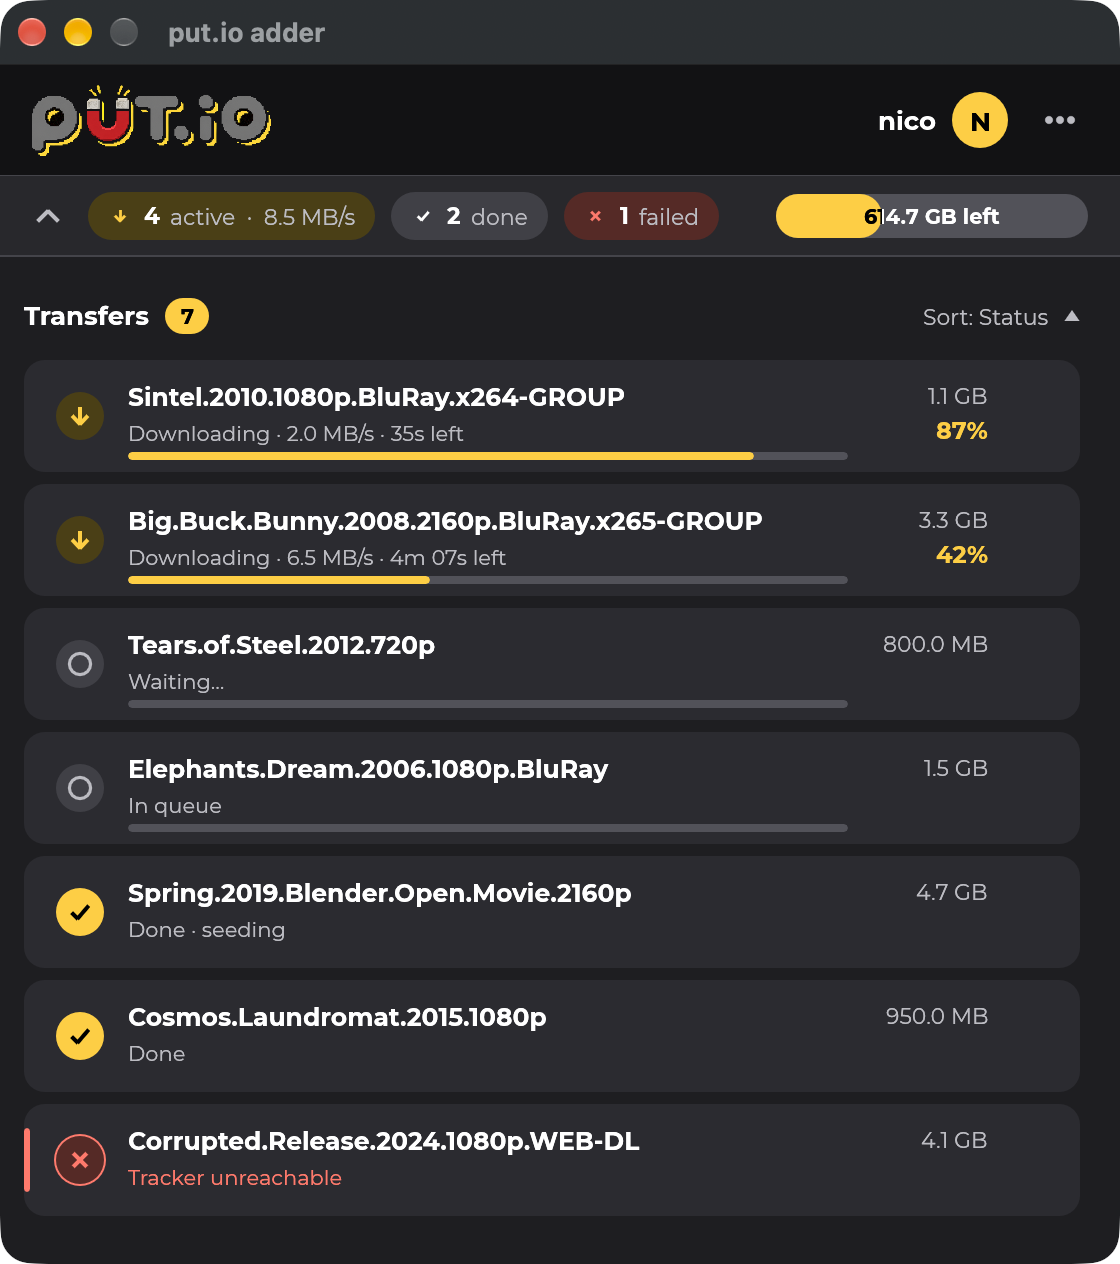
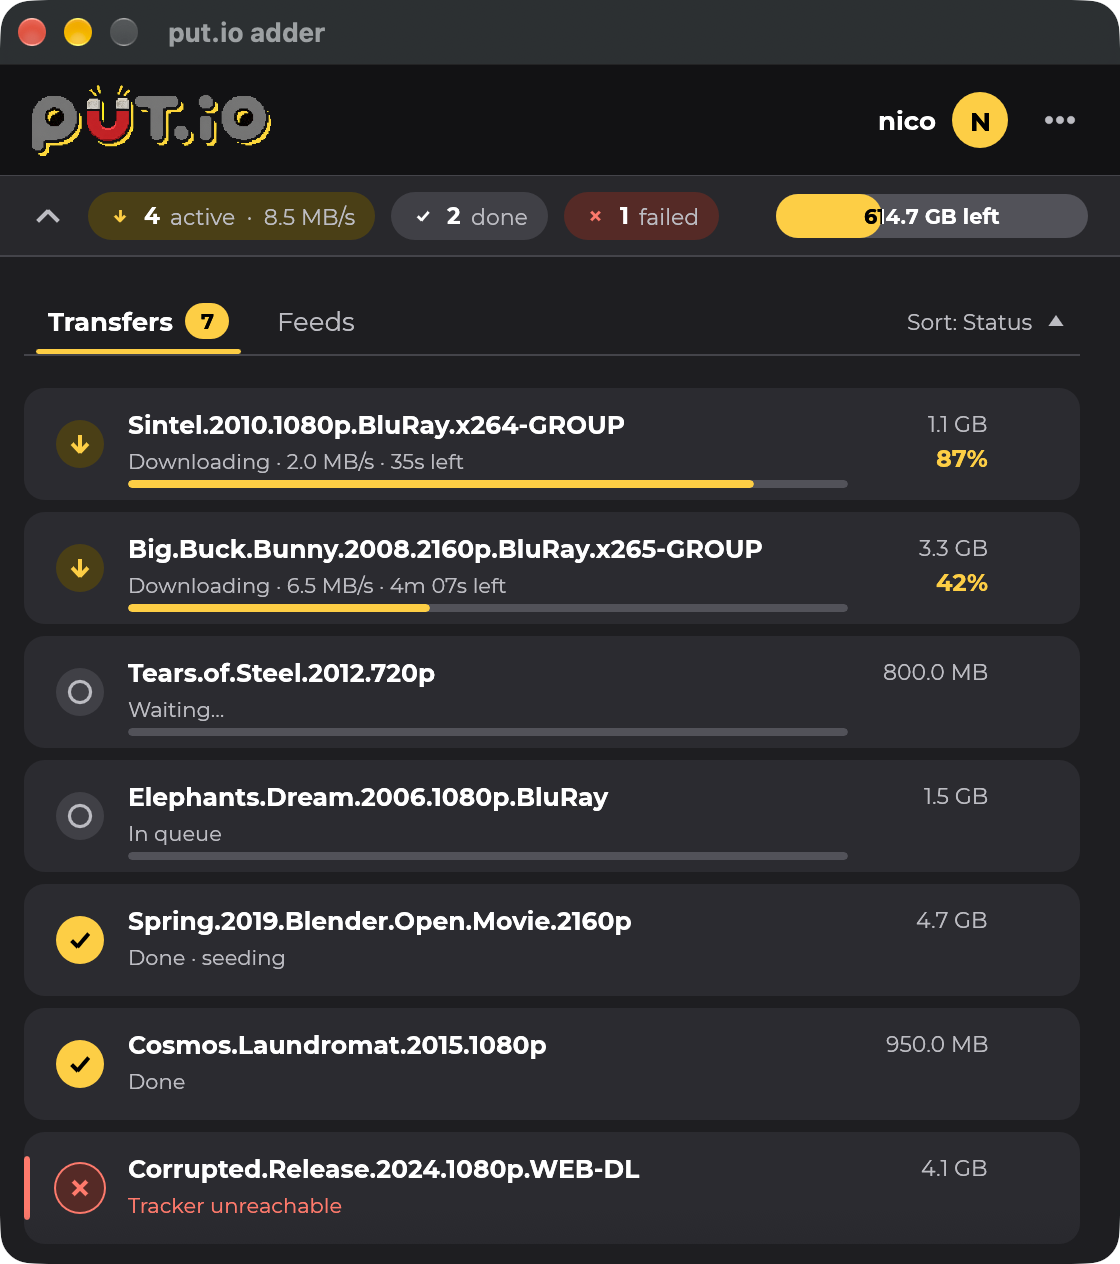
Document the feeds tab, retake the screenshots, test pasting into a field

diff --git a/crates/putio-adder/src/ui/widgets.rs b/crates/putio-adder/src/ui/widgets.rs
@@ -573,6 +573,57 @@ mod tests {
         }
     }
 
+    /// Run `frames` frames of a text field, feeding `events` to the second one.
+    fn typed_into_a_field(events: Vec<egui::Event>, limit: usize) -> String {
+        let ctx = egui::Context::default();
+        theme::apply(&ctx, putio_core::settings::ThemeChoice::Light);
+        let mut value = String::new();
+        for frame in 0..4 {
+            let input = egui::RawInput {
+                screen_rect: Some(egui::Rect::from_min_size(
+                    Pos2::ZERO,
+                    Vec2::new(400.0, 300.0),
+                )),
+                events: if frame == 2 {
+                    events.clone()
+                } else {
+                    Vec::new()
+                },
+                ..Default::default()
+            };
+            let output = ctx.run_ui(input, |ui| {
+                let label = ui.label("Address").id;
+                let field =
+                    text_field(ui, &mut value, "https://example.com/feed.xml", label, limit);
+                if frame == 0 {
+                    field.request_focus();
+                }
+            });
+            output.drop_without_applying_deltas();
+        }
+        value
+    }
+
+    #[test]
+    fn what_is_typed_or_pasted_lands_in_the_field_and_stops_at_its_limit() {
+        assert_eq!(
+            typed_into_a_field(vec![egui::Event::Text("abc".into())], 100),
+            "abc"
+        );
+        assert_eq!(
+            typed_into_a_field(
+                vec![egui::Event::Paste("https://example.com/feed.xml".into())],
+                100
+            ),
+            "https://example.com/feed.xml"
+        );
+        assert_eq!(
+            typed_into_a_field(vec![egui::Event::Paste("0123456789ABCDEF".into())], 10),
+            "0123456789",
+            "the limit holds for a paste too"
+        );
+    }
+
     #[test]
     fn text_is_cut_with_an_ellipsis_only_when_it_does_not_fit() {
         #[allow(clippy::cast_precision_loss)] // tiny test strings

diff --git a/README.md b/README.md
@@ -6,6 +6,7 @@ A small cross-platform app for **macOS, Windows and Linux** (x86-64 and arm64), 
 - **Magnet links and `.torrent` files** go straight to your put.io queue. The app asks once whether it should be the default app for them, and sets itself up if you say yes
 - **Your transfers** at a glance: progress, speed, ETA and size, sorted how you like, with a notification when one finishes
 - **Right-click a transfer** (or use its "⋯" button) for a details panel (peers, share ratio, tracker message, dates), retry, copy the put.io link or the magnet link, cancel or stop seeding, clear finished ones, stream in [VLC](https://www.videolan.org/vlc/), or download the file or folder through your browser
+- **RSS feeds** on their own tab: add a feed, choose where its items are saved, filter by words, pause, edit or delete it. put.io does the watching and the transfers show up in the list like any other (⌘1 / ⌘2, or Ctrl+1 / Ctrl+2, switch tabs)
 - **Updates itself** from GitHub releases when you press *Update now* (see [What the updater checks](#updates))
 - Optional: choose the put.io folder new transfers are saved in
 - Light and dark theme, a resizable window, English, German and Spanish
@@ -18,6 +19,10 @@ A small cross-platform app for **macOS, Windows and Linux** (x86-64 and arm64), 
   <tr>
     <td><img src="docs/images/screenshot-light.png" alt="put.io adder in the light theme, showing running, queued, finished and failed transfers" width="420"></td>
     <td><img src="docs/images/screenshot-dark.png" alt="put.io adder in the dark theme, showing running, queued, finished and failed transfers" width="420"></td>
+  </tr>
+  <tr>
+    <td><img src="docs/images/screenshot-feeds-light.png" alt="The Feeds tab in the light theme, with running, paused and broken feeds" width="420"></td>
+    <td><img src="docs/images/screenshot-feeds-dark.png" alt="The Feeds tab in the dark theme, with running, paused and broken feeds" width="420"></td>
   </tr>
 </table>
 

diff --git a/docs/development.md b/docs/development.md
@@ -16,6 +16,9 @@ PUTIO_ADDER_DEMO=menu cargo run -p putio-adder      # the "..." menu open (menu-
 PUTIO_ADDER_DEMO=sort cargo run -p putio-adder      # the sort drop-down open
 PUTIO_ADDER_DEMO=card-menu cargo run -p putio-adder   # a card's "⋯" menu open (also card-menu-seeding, -failed, -done)
 PUTIO_ADDER_DEMO=details cargo run -p putio-adder     # the details panel (also details-downloading, details-failed, details-long)
+PUTIO_ADDER_DEMO=feeds cargo run -p putio-adder     # the Feeds tab (also feeds-empty, feeds-loading, feeds-failed, feed-card-menu)
+PUTIO_ADDER_DEMO=feed-add cargo run -p putio-adder  # the add-feed form (also feed-edit, feed-delete: the question before deleting)
+PUTIO_ADDER_LOCALE=de|es PUTIO_ADDER_DEMO=feeds cargo run -p putio-adder   # any view in German or Spanish
 PUTIO_ADDER_DEMO=update cargo run -p putio-adder    # an installable update on offer (also update-installing, -ready, -failed, -manual, prefs-update)
 PUTIO_ADDER_DEMO_TOGGLE=3000 PUTIO_ADDER_DEMO=list cargo run -p putio-adder   # opens and closes the list every 3 s (the window animation)
 PUTIO_ADDER_THEME=dark|light|system                 # override the saved theme (any debug run)
@@ -53,6 +56,7 @@ for t in tools/test_*.py; do python3 -I "$t"; done
 
 ## Screenshots
 
-The README screenshots (`docs/images/screenshot-light.png` and `-dark.png`) are the demo list (`PUTIO_ADDER_DEMO=list`) with
+The README screenshots (`docs/images/screenshot-light.png` and `-dark.png`, `screenshot-feeds-light.png` and `-dark.png`) are the demo list
+(`PUTIO_ADDER_DEMO=list`) and the demo feeds (`PUTIO_ADDER_DEMO=feeds`) with
 `PUTIO_ADDER_THEME=light|dark`, captured as a window-only 2x PNG (`screencapture -o -l <window id>`). The demo data is
 fictional (public-domain film titles), so nothing personal is in them. Retake them when the look changes.

diff --git a/docs/architecture.md b/docs/architecture.md
@@ -43,3 +43,5 @@ back-off, auto-close and status-line expiry are all unit-tested without sleeping
 - **Polling** starts right after sign-in and backs off on errors and rate limits.
 - **Avatars:** the header shows the account's initial. A Gravatar would need a hash of the e-mail sent to a third party, so there is none.
 - **Updates** compare semantic versions; installing one is described in [updates.md](updates.md).
+- **RSS feeds** live on put.io, which watches them and turns new items into transfers; the app only manages the list (`state/feeds.rs`). The list is fetched when the Feeds tab is open and not otherwise, a form is checked before anything is sent (`feeds.rs`), and what put.io refuses is explained in the user's language. A feed's address often carries a private key, so only its host is ever shown and only a web address is ever copied.
+- **The window's tabs** (`ui/tabs.rs`) are planned before they are painted: counts go first, then labels are cut, so the longest German or Spanish word cannot push the controls beside it out of place. The tests draw each piece in every language at the narrowest window and look at where the text lands.
